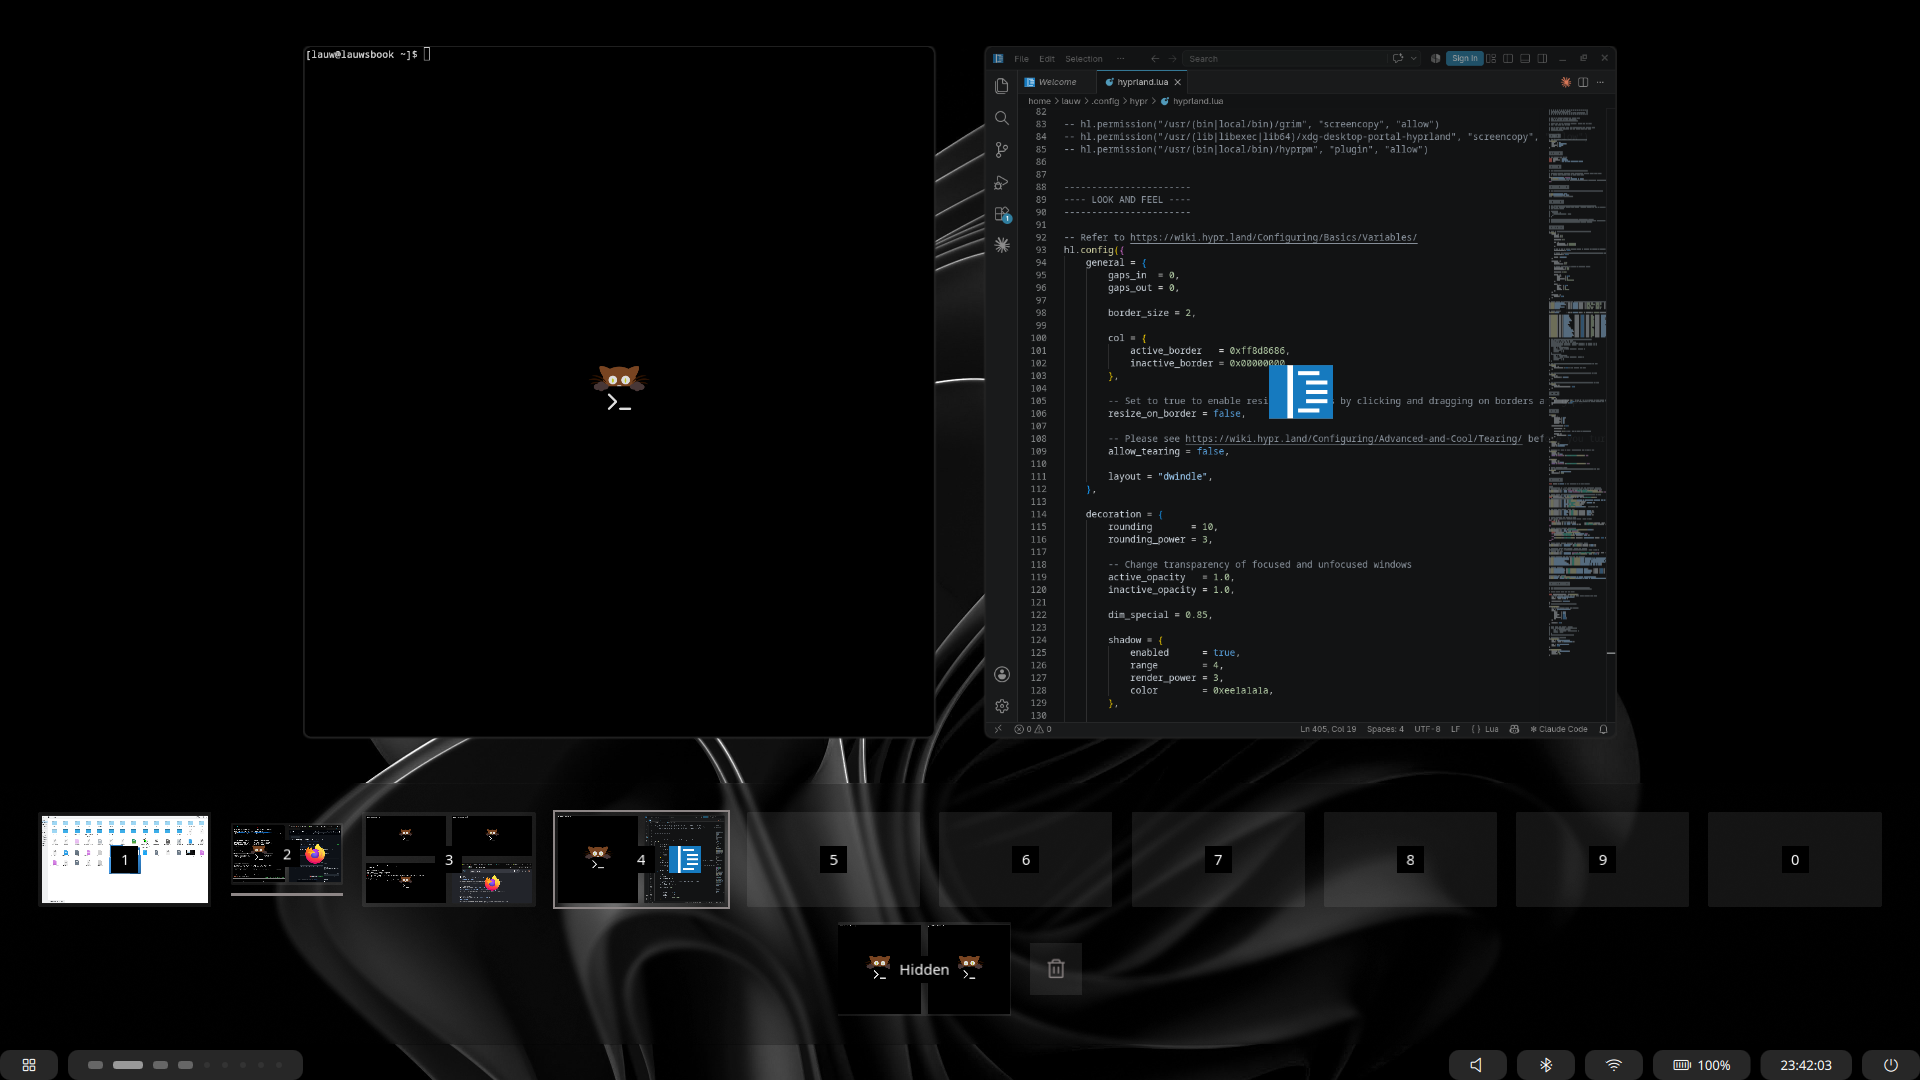
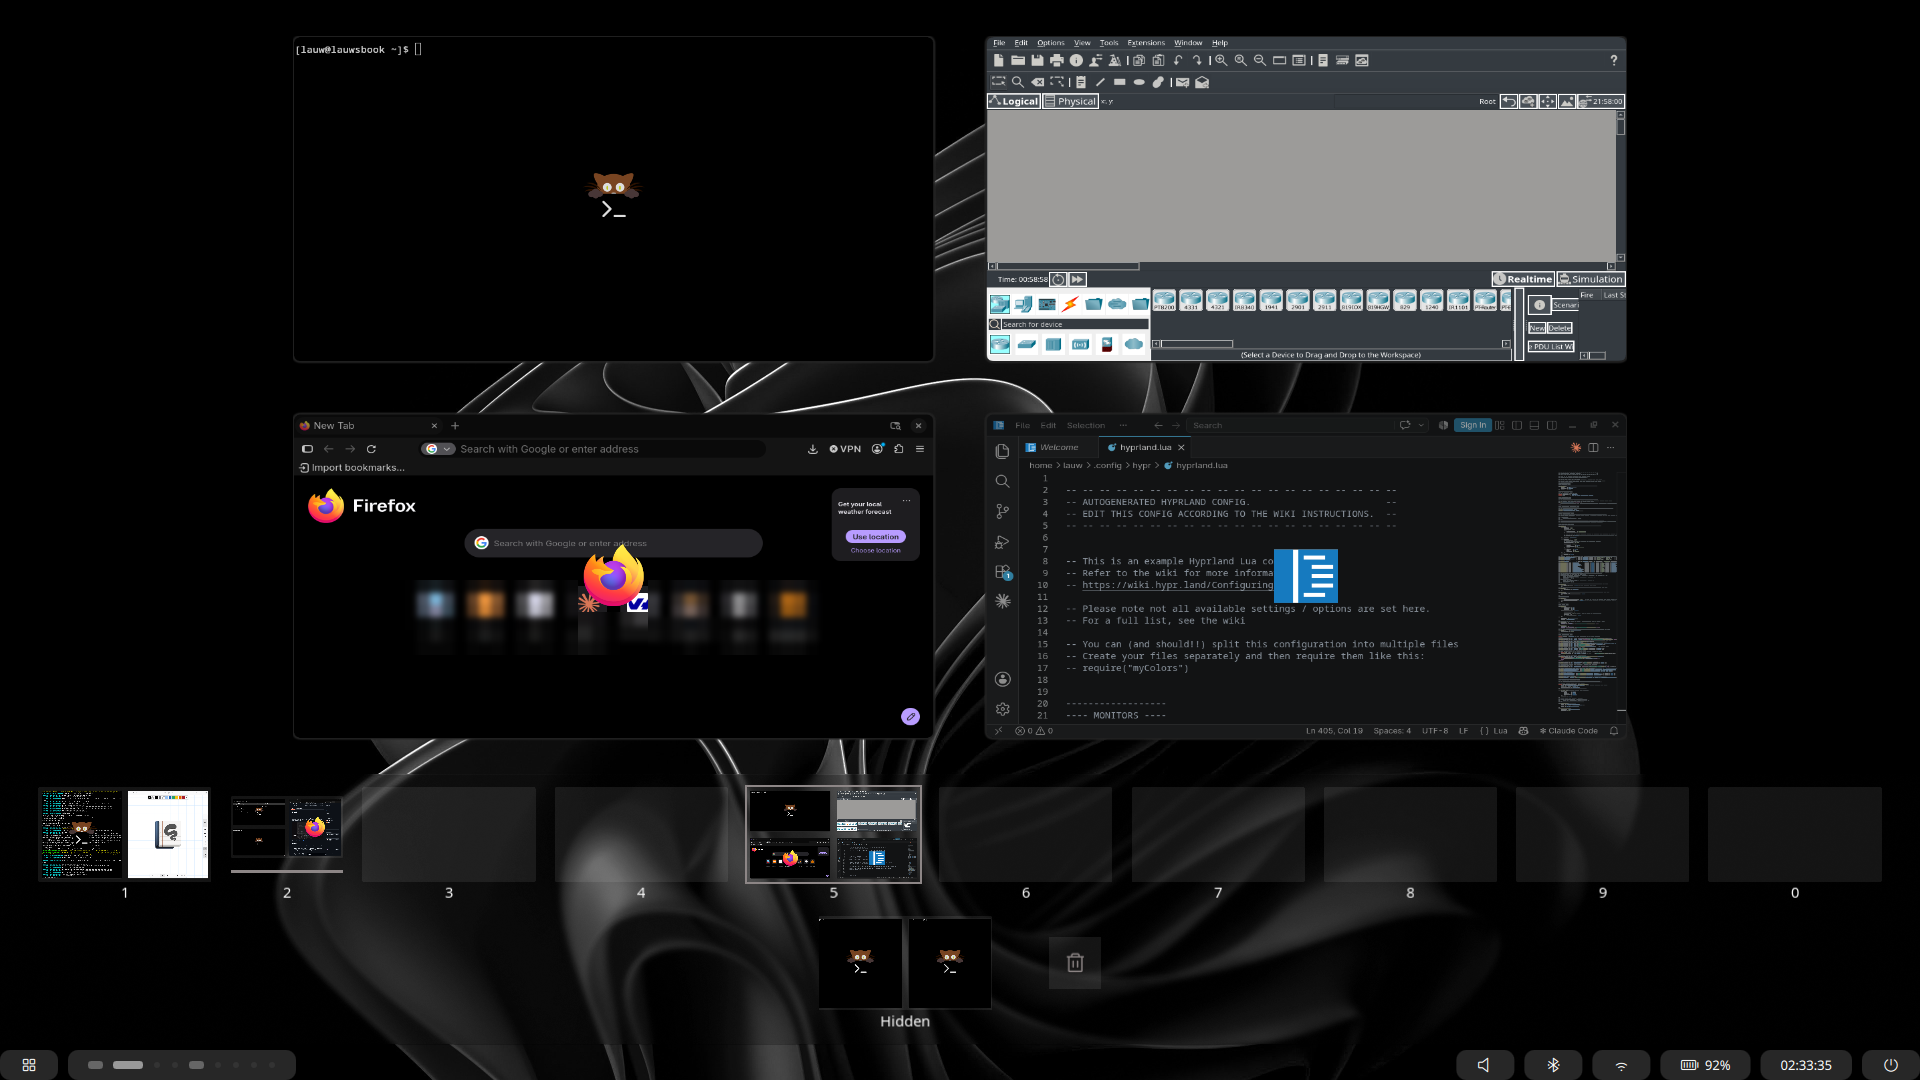
Layout: full-width tile row, bigger top view, balanced strip margins; new screenshot
- The numbered row fills the width; the strip takes the height it needs (at most a third).
- Smaller margins around the top view; tile names right under the tiles.
- An empty workspace's view is inset like windows are, so it has the same size.
- More space between the current workspace's tile and its bar.
- Delete mode: the hovered trash keeps its red border, 2 px thicker.

diff --git a/src/layout.cpp b/src/layout.cpp
@@ -5,11 +5,14 @@ static SHyprdropLayout hyprdropAnimateLayout(SHyprdropLayout L, const CBox& U, c
 // Marking of A's tile: smaller than the others, with a bar under it.
 // A's slot is narrower, so the other tiles get more room.
 static constexpr double     HYPRDROP_ACTIVE_SCALE   = 0.65;
+static constexpr double     HYPRDROP_ACTIVE_BAR_GAP = 12.0; // logical px between A's tile and its bar
 
-static constexpr double     HYPRDROP_ACTIVE_BAR_GAP = 8.0; // logical px between A's tile and its bar
 
-// Room under each row of tiles for the tiles' names (logical px).
-static constexpr double HYPRDROP_LABEL_SPACE = 24.0;
+// Room under each row of tiles for the tiles' names (logical px): about one line of text,
+// so the strip's bottom margin (under the last names) matches its top one.
+static constexpr double HYPRDROP_LABEL_SPACE = 22.0;
+// Largest share of the usable height the strip may take.
+static constexpr double HYPRDROP_STRIP_MAX = 0.33;
 
 // ---------------------------------------------------------------- animations
 
@@ -142,11 +145,27 @@ SHyprdropLayout hyprdropLayout(const Vector2D& S) {
     const CBox   U      = HASU ? g_hyprdropCaptureUsable : CBox{0, 0, S.x, S.y};
     const double aspect = U.w / U.h;
 
-    // The strip grows when it has the second row; the top view takes what's left.
-    const double stripH = U.h * (MAGICROW ? 0.25 : 0.15);
+    const double gap    = U.w * 0.01;
+    const double rowGap = U.h * 0.012;
+    const double availW = U.w * 0.96;
+    // A's slot counts for HYPRDROP_ACTIVE_SCALE of a tile, so the others get more room.
+    const int    A     = hyprdropActiveTile();
+    const bool   AROW  = A >= 0 && A < (int)n;
+    const double UNITS = n - (AROW ? 1.0 - HYPRDROP_ACTIVE_SCALE : 0.0);
+
+    // The numbered row fills the width; the strip is as tall as its rows need, at most
+    // HYPRDROP_STRIP_MAX of the height (then the tiles shrink and the row is centered).
+    // The top view takes what's left.
+    double w = n > 0 ? (availW - (n - 1) * gap) / UNITS : 0;
+    double h = w / aspect;
+    if (const double HMAX = (U.h * HYPRDROP_STRIP_MAX - (rows + 1) * rowGap - rows * HYPRDROP_LABEL_SPACE) / rows; h > HMAX) {
+        h = HMAX;
+        w = h * aspect;
+    }
+    const double stripH = g_hyprdropTiles.empty() ? U.h * 0.15 : rows * (h + HYPRDROP_LABEL_SPACE) + (rows + 1) * rowGap;
     L.strip             = {U.x, U.y + U.h - stripH, U.w, stripH};
 
-    const double margin = U.h * 0.02;
+    const double margin = U.h * 0.01;
     const double availH = L.strip.y - U.y - 2 * margin;
     double       TH     = availH;
     double       TW     = TH * aspect;
@@ -158,21 +177,6 @@ SHyprdropLayout hyprdropLayout(const Vector2D& S) {
 
     if (g_hyprdropTiles.empty())
         return hyprdropAnimateLayout(L, U, S);
-
-    const double gap    = U.w * 0.01;
-    const double rowGap = U.h * 0.015;
-    const double availW = U.w * 0.96;
-    // A's slot counts for HYPRDROP_ACTIVE_SCALE of a tile, so the others get more room.
-    const int    A     = hyprdropActiveTile();
-    const bool   AROW  = A >= 0 && A < (int)n;
-    const double UNITS = n - (AROW ? 1.0 - HYPRDROP_ACTIVE_SCALE : 0.0);
-    double       h     = (stripH - (rows + 1) * rowGap - rows * HYPRDROP_LABEL_SPACE) / rows;
-    double       w     = h * aspect;
-
-    if (n > 0 && UNITS * w + (n - 1) * gap > availW) { // too many tiles: shrink them
-        w = (availW - (n - 1) * gap) / UNITS;
-        h = w / aspect;
-    }
 
     // Rows (tiles + their names) centered vertically in the strip.
     const double ROWH = h + HYPRDROP_LABEL_SPACE;

diff --git a/src/render.cpp b/src/render.cpp
@@ -315,9 +315,9 @@ static void hyprdropAddTileLabel(WORKSPACEID id, const CBox& area, double monSca
     if (!tex)
         return;
 
-    // Centered in its area, straight on the strip.
+    // Right under the tile, centered horizontally, straight on the strip.
     const Vector2D TS  = tex->m_size / monScale;
-    const Vector2D POS = area.pos() + (area.size() - TS) / 2.0;
+    const Vector2D POS = {area.x + (area.w - TS.x) / 2, area.y};
 
     CTexPassElement::SRenderData data;
     data.tex    = tex;
@@ -354,14 +354,16 @@ static SP<Render::ITexture> hyprdropTrashIcon(const CHyprColor& color, int px) {
 
 // The trash: an empty tile with the icon in the active border color, red with a red border
 // while a dragged window is over it or the delete mode is on. Hovered by the pointer, its
-// border takes the active border color like a tile, even in delete mode (the icon stays red).
+// border takes the active border color like a tile; in delete mode it stays red and thickens.
 static void hyprdropAddTrash(const CBox& box, double monScale) {
     const bool DROP = hyprdropDragging() && g_hyprdropTrashHover;
     const bool HOT  = DROP || g_hyprdropDeleteMode;
     hyprdropAddRect(box, HYPRDROP_TILE_BG);
-    // Border: hovered by the pointer (not a drop) -> active border color, even in delete
-    // mode; otherwise red when hot.
-    if (g_hyprdropTrashHover && !DROP)
+    // Border: in delete mode, red, 2 px thicker while hovered; otherwise hovered by the
+    // pointer (not a drop) -> active border color; red when a window is dropped on it.
+    if (g_hyprdropDeleteMode)
+        hyprdropAddBorder(box, HYPRDROP_TILE_BORDER + (g_hyprdropTrashHover && !DROP ? 2.0 : 0.0), HYPRDROP_TRASH_HOT);
+    else if (g_hyprdropTrashHover && !DROP)
         hyprdropAddBorder(box, HYPRDROP_TILE_BORDER, hyprdropActiveBorderColor());
     else if (HOT)
         hyprdropAddBorder(box, HYPRDROP_TILE_BORDER, HYPRDROP_TRASH_HOT);
@@ -391,9 +393,13 @@ static void hyprdropAddWorkspace(WORKSPACEID id, const CBox& box, double monScal
     const auto CAPS = hyprdropCaptureOf(id);
     if (!CAPS) {
         // An empty view with no background would look like a rendering bug: show it as an
-        // empty tile does.
-        if (bg.a <= 0)
-            hyprdropAddRect(box.intersection(CLIP), HYPRDROP_TILE_BG, ROUND);
+        // empty tile does. Inset like windows are (they shrink by the extra gap around their
+        // center), so it has the size a full workspace's windows have.
+        if (bg.a <= 0) {
+            const double K     = box.w / g_hyprdropCaptureUsable.w;
+            const double INSET = (2 * HYPRDROP_GAPS_IN_REF + HYPRDROP_WINDOW_GAP) / g_hyprdropCaptureScale / 2 * K * hyprdropOpenProgress();
+            hyprdropAddRect(CBox{box}.expand(-INSET).intersection(CLIP), HYPRDROP_TILE_BG, ROUND);
+        }
         return;
     }
 
